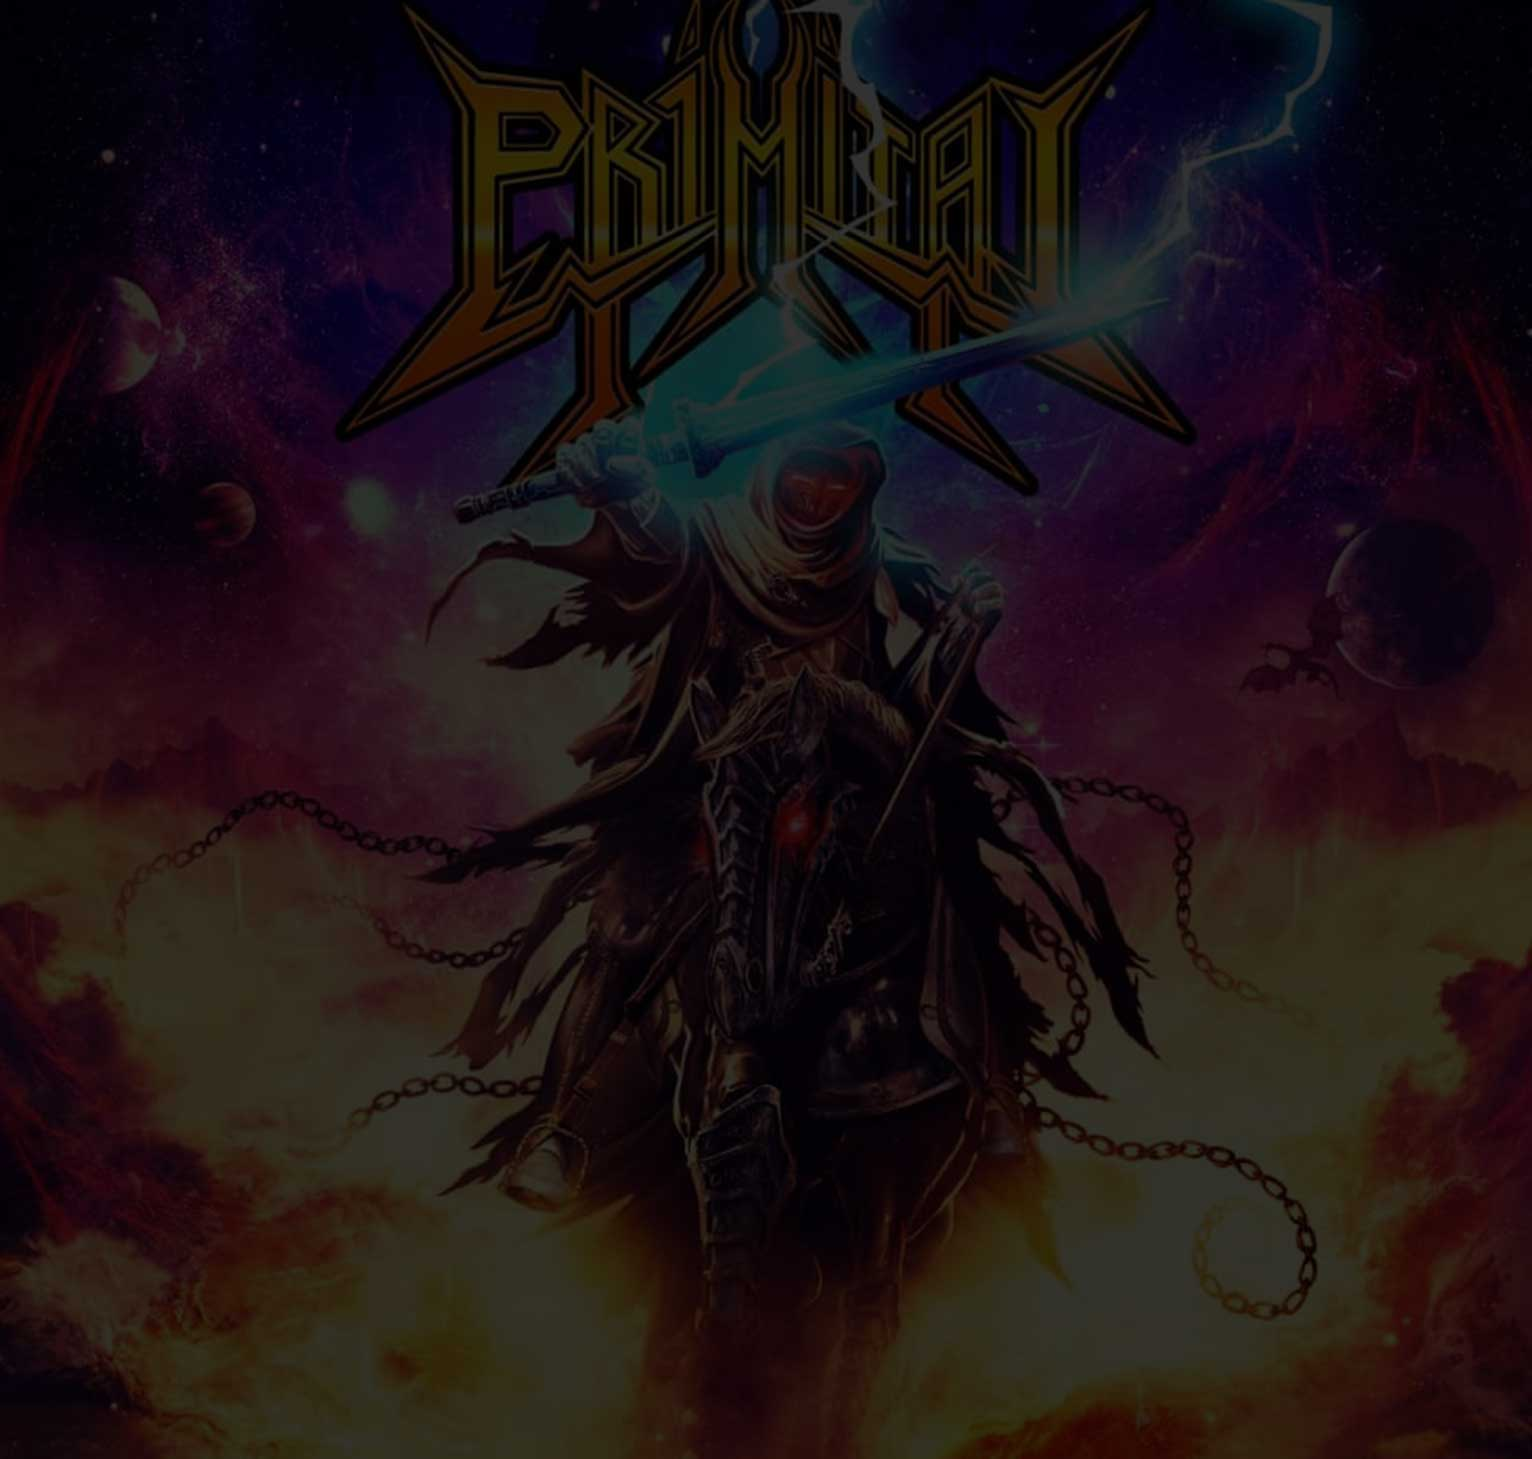
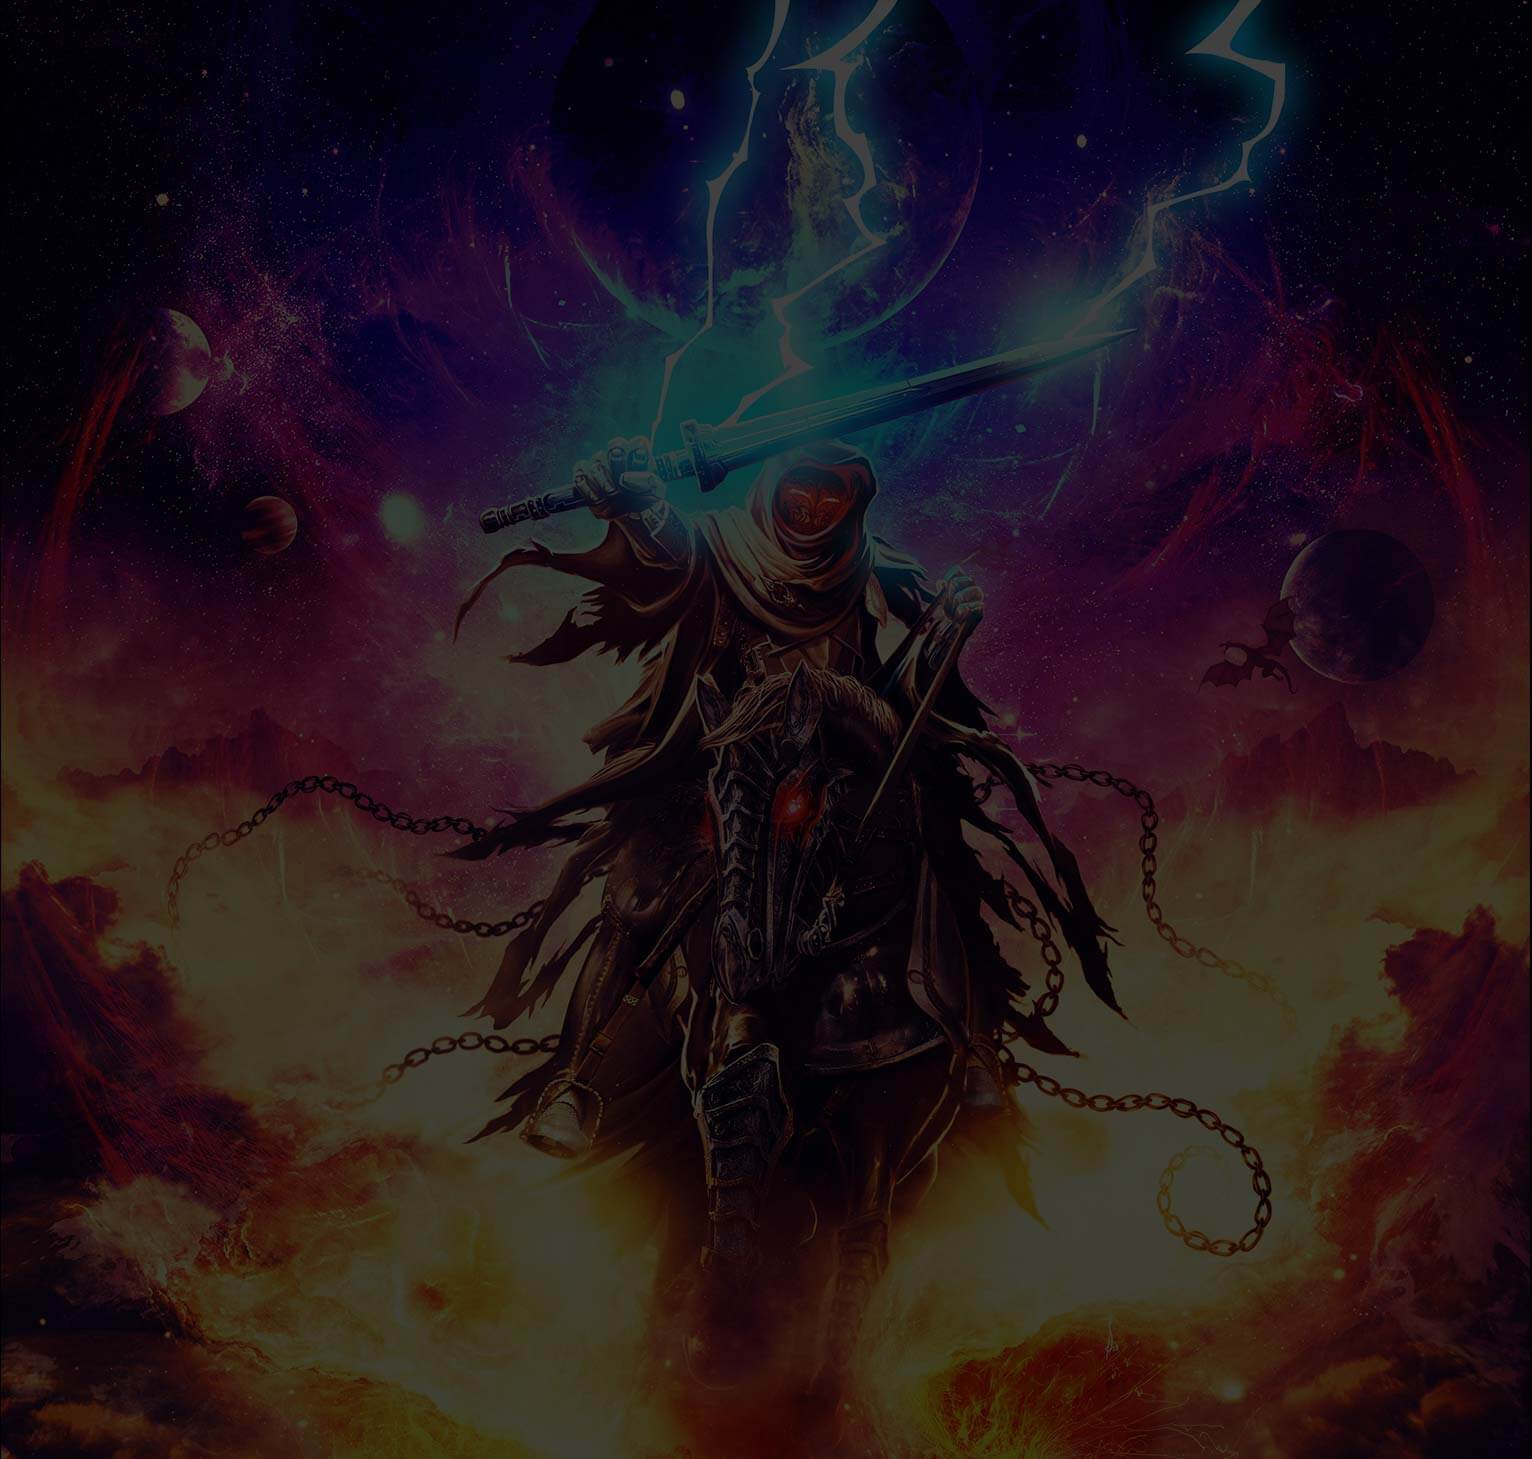
v2.1 - bad titles added.

diff --git a/js/main.js b/js/main.js
@@ -167,7 +167,7 @@ function playIntroScreen() {
         .to([introLogo2],3,{alpha:1,ease:Linear.easeNone},"<1")
         .to([introTxt04,introLogo2],.5,{alpha:0,ease:Linear.easeNone},">")
 
-        .to(introTxt05,3,{alpha:1,ease:Linear.easeNone},">")
+        .to([introTxt05,introTxt05a],3,{alpha:1,ease:Linear.easeNone},">")
 
         .to(introScreen,3,{alpha:0,ease:Linear.easeNone},">-3")
         
@@ -189,7 +189,7 @@ function introPlayed() {
 
     tlIntroScreen.pause();
 
-    gsap.to(introTxt05,0,{alpha:1});
+    gsap.to([introTxt05,introTxt05a],0,{alpha:1});
     gsap.to("#tilt",0,{y:0,alpha:1})
 
     container.removeEventListener('touchend', introPlayed);
@@ -217,13 +217,13 @@ function unBindButtons_gameResume(){
 }
 
 function BindButtons_startGame(){
-    // console.log("BindButtons_startGame");
+    console.log("BindButtons_startGame");
 
+     // mobile
     btnMoveDown.addEventListener('touchend', startGame);
-
-
-
     btnOption.addEventListener('touchend', showOptions);
+
+	 //keyboard
     document.body.addEventListener('keypress', introScreenBtnPressed);
 }
 
@@ -265,7 +265,7 @@ function showOptions(){
 
 
     // show options screen: 
-    gsap.to(introTxt05,0,{alpha:0});
+    gsap.to([introTxt05,introTxt05a],0,{alpha:0});
     gsap.to(optionsScreen,0,{alpha:1,display:"block"});
 
     optionsBike.addEventListener('click',function(){ optionsBike_chosen()});
@@ -282,7 +282,7 @@ function showOptions(){
 function optionsBike_chosen(bikeNo){
     if(bikeNo==undefined) {bikeNo=""}
     gsap.to("#bike-go",0,{className: "bike"+bikeNo})
-    gsap.to(introTxt05,0,{alpha:1});
+    gsap.to([introTxt05,introTxt05as],0,{alpha:1});
     gsap.to(optionsScreen,0,{alpha:0,display:"none"});
 
     $('#mobileControls').removeClass("optionsShowing");
@@ -292,7 +292,7 @@ function optionsBike_chosen(bikeNo){
 }
 
 function unBindButtons_startGame(){
-    // console.log("unBindButtons_startGame");
+    console.log("unBindButtons_startGame");
 
     btnMoveDown.removeEventListener('touchend', startGame);
     document.body.removeEventListener('keypress', startGame);
@@ -300,7 +300,7 @@ function unBindButtons_startGame(){
 
 
 function BindButtons_gamePlay(){
-    // console.log("BindButtons_gamePlay")
+    console.log("BindButtons_gamePlay")
 
     // remove StartGame Event Listeners 
     unBindButtons_startGame();
@@ -504,16 +504,23 @@ function keyUp(){
 }
 
 
+var gameStarted = false;
 /*///////////////////////  ////////////////////////////////*/
 /*/////////////////////// START GAME ////////////////////////////////*/
 /*///////////////////////  ////////////////////////////////*/
 /*///////////////////////  ////////////////////////////////*/
 function startGame(ev,didAutoPlay)
 {
+	if(!gameStarted){
+		gameStarted=true;
+
+	// setup all listeners for gaming:
+    BindButtons_gamePlay();
+
     tlIntroScreen.pause();
 
     gsap.to([introScreen,btnOption],0,{display:"none"});
-    gsap.to([introTxt05,optionsScreen],0,{alpha:0});
+    gsap.to([introTxt05,introTxt05a,optionsScreen],0,{alpha:0});
     gsap.to("#tilt",0,{y:0})
 
     points=0;
@@ -545,8 +552,7 @@ function startGame(ev,didAutoPlay)
         
 
 
-    // setup all listeners for gaming:
-    BindButtons_gamePlay();
+    
     
     
 
@@ -587,7 +593,7 @@ function startGame(ev,didAutoPlay)
 
         .to(instructionsTxt4,0,{alpha:1},"<.75")
         .to(instructionsTxt4,0,{alpha:0},"+=4");
-        
+ 	}       
 }
 
 
@@ -1190,13 +1196,14 @@ function fgTimeLineComplete() {
 
 function playEnding(){
     endingPlayed=true;
+
     
     // play ending!!
     gsap.killTweensOf(detectCollision);
     gsap.killTweensOf(backtoBounce);
     gsap.killTweensOf(notJumping);
 
-    gsap.to(".obstacle",0,{alpha:0});
+    gsap.to([".obstacle",pausedtxt],0,{alpha:0});
     tl.pause();
 
     gsap.set([pointstxt,jumpingtxt],{alpha:0});
@@ -1778,6 +1785,10 @@ var doneChorusTint = false,
 function traceAudioTime(){
     if(audio.currentTime>=84 && introPlaying){
         introPlaying=false;
+
+        // got to the point in the song:
+        // do auto play
+        unBindButtons_startGame();
         startGame(false,true);
     }
     

diff --git a/index.html b/index.html
@@ -296,7 +296,10 @@
                     <div id="lyrics20" class="lyrics">To fight, defy,</div>
                     <div id="lyrics21" class="lyrics">I’ll set the galaxy ablaze</div>
                 </div>
-                <div id="introTxt05" class="copy hidden">stars are my guide</div>
+
+                
+                <img src="images/title.png" id="introTxt05" class="hidden">
+                <img src="images/primitai-intro-logo.png" id="introTxt05a" class="hidden">
 
 
 

diff --git a/styles/intro.css b/styles/intro.css
@@ -63,10 +63,22 @@
     font-size: 0.8em;
 }
 #introTxt05 {
-    font-size: 1.55em;
+    /*font-size: 1.55em;
     color: #fed9ef;
     text-align: center;
-    top: 85px;
+    top: 85px;*/
+
+    top: 96px;
+    position: absolute;
+    left: 5%;
+    width: 90%;
+}
+#introTxt05a{
+    position: absolute;
+    left: 50%;
+    top: 3px;
+    transform: translateX(-50%);
+    width: 170px;
 }
 .clickable {
     cursor: pointer;
